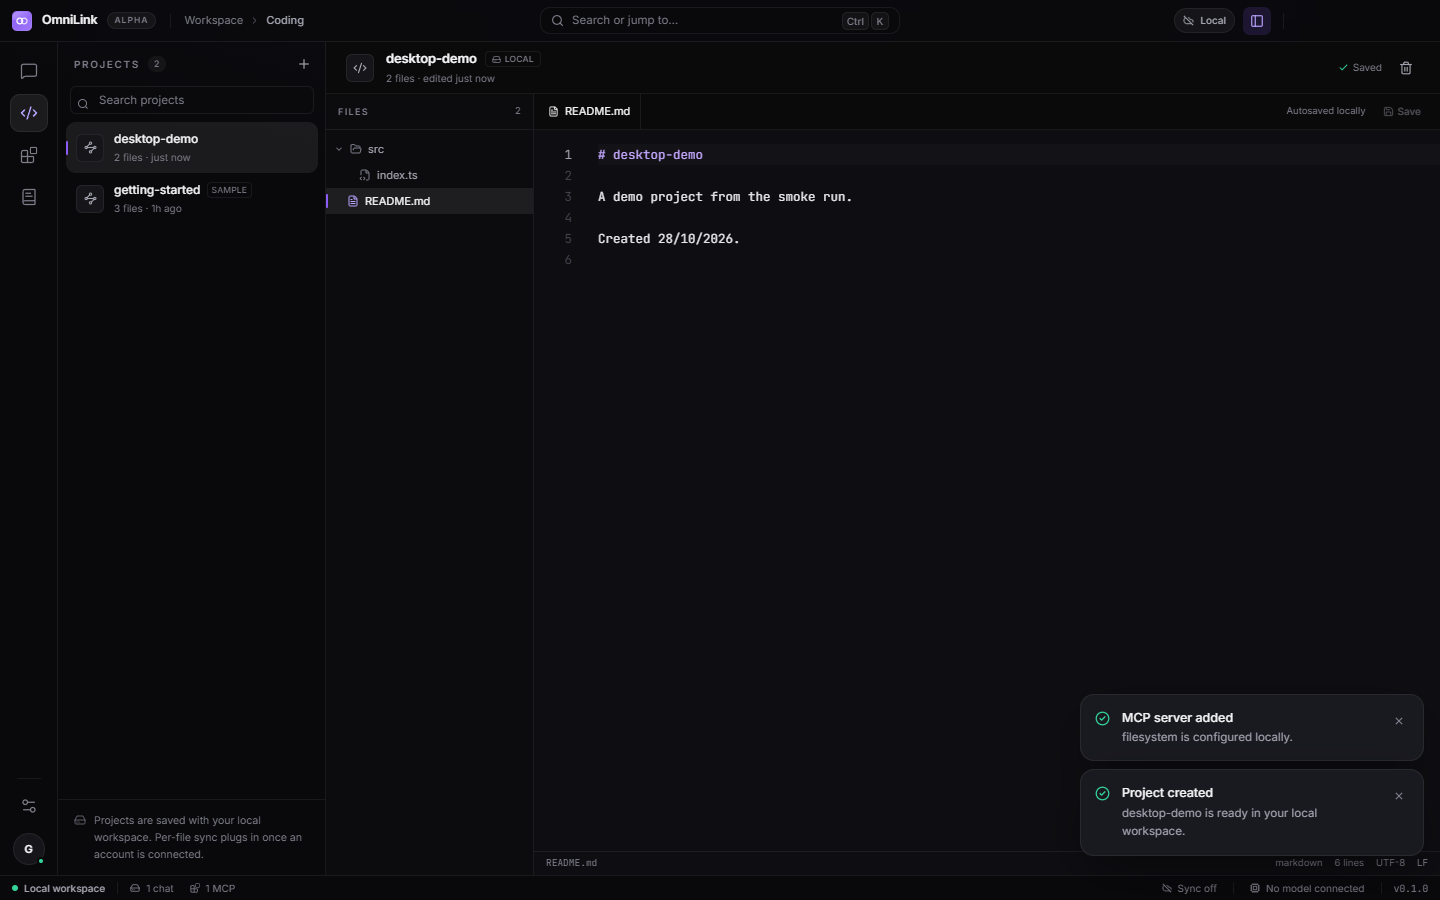
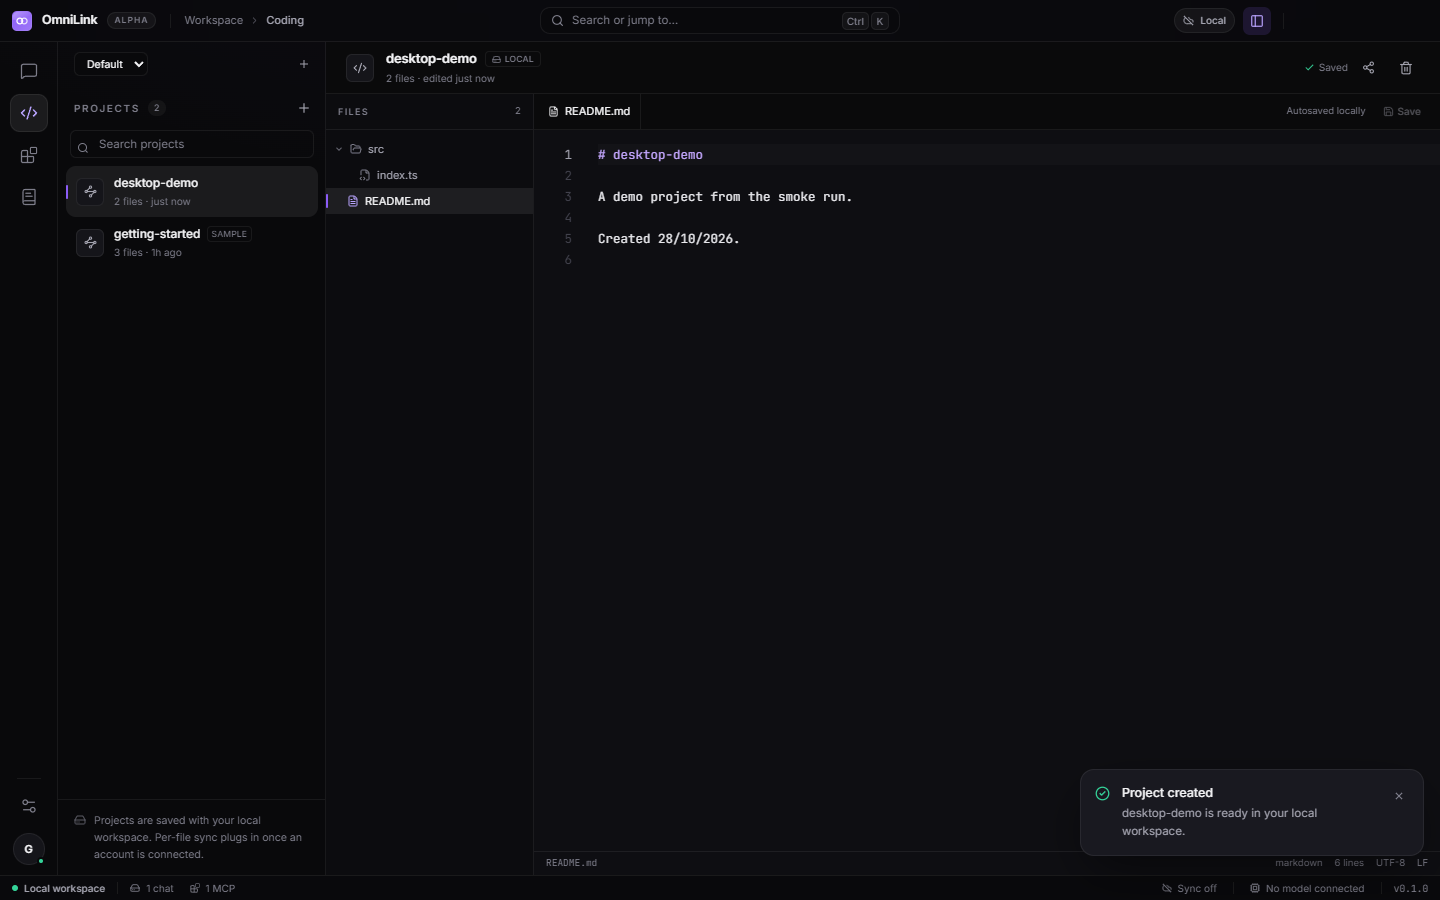
feat(desktop): workspaces + project share bundle (website port)

Changed region(s): [[0.0625, 0.0622, 0.1562, 0.28], [0.75, 0.7778, 0.9062, 0.84], [0.9062, 0.0622, 0.9688, 0.0933]]

diff --git a/omnilink-desktop/src/store/app.ts b/omnilink-desktop/src/store/app.ts
@@ -22,6 +22,7 @@ import type {
   SettingsSection,
   ThemeMode,
   Toast,
+  Workspace,
 } from "@/types";
 import { uid } from "@/lib/utils";
 import { zustandStorage } from "@/lib/storage";
@@ -34,6 +35,7 @@ function scaffoldProject(name: string, description: string): CodingProject {
     description,
     createdAt: timestamp,
     updatedAt: timestamp,
+    workspaceId: "default",
     files: [
       {
         path: "README.md",
@@ -58,6 +60,8 @@ interface AppState {
   modal: ModalState;
   activeConversationId: string | null;
   activeProjectId: string | null;
+  workspaces: Workspace[];
+  activeWorkspaceId: string | null;
   promptTag: string | null;
   ollamaUrl: string;
   modelProvider: ModelProvider;
@@ -99,6 +103,10 @@ interface AppState {
     content: string,
   ) => void;
   setActiveProject: (id: string | null) => void;
+
+  addWorkspace: (name: string) => string;
+  deleteWorkspace: (id: string) => void;
+  setActiveWorkspace: (id: string | null) => void;
 
   addMcpServer: (server: {
     name: string;
@@ -157,6 +165,8 @@ export const useApp = create<AppState>()(
       modal: null,
       activeConversationId: welcomeConversation.id,
       activeProjectId: gettingStartedProject.id,
+      workspaces: [{ id: "default", name: "Default", createdAt: Date.now() }],
+      activeWorkspaceId: "default",
       promptTag: null,
       ollamaUrl: "http://127.0.0.1:11434",
       modelProvider: "ollama",
@@ -296,6 +306,35 @@ export const useApp = create<AppState>()(
 
       setActiveProject: (activeProjectId) =>
         set({ activeProjectId, section: "coding" }),
+
+      addWorkspace: (name) => {
+        const workspace: Workspace = {
+          id: uid("workspace-"),
+          name: name.slice(0, 60) || "Workspace",
+          createdAt: Date.now(),
+        };
+        set((state) => ({
+          workspaces: [...state.workspaces, workspace],
+          activeWorkspaceId: workspace.id,
+        }));
+        return workspace.id;
+      },
+      deleteWorkspace: (id) =>
+        set((state) => {
+          if (id === "default") return state;
+          const workspaces = state.workspaces.filter((w) => w.id !== id);
+          const activeWorkspaceId =
+            state.activeWorkspaceId === id ? "default" : state.activeWorkspaceId;
+          return { workspaces, activeWorkspaceId };
+        }),
+      setActiveWorkspace: (activeWorkspaceId) =>
+        set({ activeWorkspaceId }),
+      renameWorkspace: (id: string, name: string) =>
+        set((state) => ({
+          workspaces: state.workspaces.map((w) =>
+            w.id === id ? { ...w, name: name.slice(0, 60) || w.name } : w,
+          ),
+        })),
 
       addMcpServer: (server) => {
         const timestamp = Date.now();
@@ -438,7 +477,8 @@ export const useApp = create<AppState>()(
           mcpServers: seedMcpServers,
           activeConversationId: welcomeConversation.id,
           activeProjectId: gettingStartedProject.id,
-          promptTag: null,
+          workspaces: [{ id: "default", name: "Default", createdAt: Date.now() }],
+          activeWorkspaceId: "default",
           modal: null,
           paletteOpen: false,
           toasts: [],
@@ -457,6 +497,8 @@ export const useApp = create<AppState>()(
         contextCollapsed: state.contextCollapsed,
         activeConversationId: state.activeConversationId,
         activeProjectId: state.activeProjectId,
+        workspaces: state.workspaces,
+        activeWorkspaceId: state.activeWorkspaceId,
         promptTag: state.promptTag,
         ollamaUrl: state.ollamaUrl,
         modelProvider: state.modelProvider,

diff --git a/omnilink-desktop/src/components/shell/ContextPane.tsx b/omnilink-desktop/src/components/shell/ContextPane.tsx
@@ -278,11 +278,17 @@ function ChatPane() {
 function CodingPane() {
   const projects = useApp((state) => state.projects);
   const activeId = useApp((state) => state.activeProjectId);
+  const workspaces = useApp((state) => state.workspaces);
+  const activeWorkspaceId = useApp((state) => state.activeWorkspaceId);
   const setActiveProject = useApp((state) => state.setActiveProject);
+  const setActiveWorkspace = useApp((state) => state.setActiveWorkspace);
+  const addWorkspace = useApp((state) => state.addWorkspace);
   const openModal = useApp((state) => state.openModal);
+  const pushToast = useApp((state) => state.pushToast);
   const [query, setQuery] = useState("");
 
   const filtered = projects
+    .filter((project) => (project.workspaceId ?? "default") === (activeWorkspaceId ?? "default"))
     .filter((project) =>
       project.name.toLowerCase().includes(query.trim().toLowerCase()),
     )
@@ -290,9 +296,35 @@ function CodingPane() {
 
   return (
     <>
+      <div className="flex h-11 flex-none items-center justify-between pl-4 pr-2.5">
+        <select
+          value={activeWorkspaceId ?? "default"}
+          onChange={(event) => setActiveWorkspace(event.target.value)}
+          className="h-6 rounded-md border border-line bg-[var(--bg-base)] px-2 text-[10.5px] text-fg outline-none"
+        >
+          {workspaces.map((workspace) => (
+            <option key={workspace.id} value={workspace.id}>
+              {workspace.name}
+            </option>
+          ))}
+        </select>
+        <IconButton
+          label="New workspace"
+          onClick={() => {
+            const name = window.prompt("Workspace name");
+            if (name) {
+              addWorkspace(name);
+              pushToast({ title: "Workspace created", tone: "success" });
+            }
+          }}
+          className="h-6 w-6"
+        >
+          <Plus size={12} />
+        </IconButton>
+      </div>
       <PaneHeader
         title="Projects"
-        count={projects.length}
+        count={filtered.length}
         onAdd={() => openModal({ type: "project-new" })}
         addLabel="New project"
       />

diff --git a/omnilink-desktop/src/views/CodingView.tsx b/omnilink-desktop/src/views/CodingView.tsx
@@ -11,6 +11,7 @@ import {
   FolderPlus,
   HardDrive,
   Save,
+  Share2,
   Trash2,
 } from "lucide-react";
 import {
@@ -394,6 +395,24 @@ export function CodingView() {
               </>
             )}
           </span>
+          <IconButton
+            label="Share project"
+            onClick={() => {
+              const blob = new Blob([JSON.stringify(project, null, 2)], {
+                type: "application/json",
+              });
+              const url = URL.createObjectURL(blob);
+              const a = document.createElement("a");
+              a.href = url;
+              a.download = `${project.name}.omnilink.json`;
+              a.click();
+              URL.revokeObjectURL(url);
+              pushToast({ title: "Project exported", tone: "success" });
+            }}
+            className="h-7 w-7"
+          >
+            <Share2 size={13} />
+          </IconButton>
           <IconButton
             label="Delete project"
             onClick={() => setConfirmDelete(true)}

diff --git a/omnilink-desktop/src/types.ts b/omnilink-desktop/src/types.ts
@@ -40,6 +40,7 @@ export interface CodingProject {
   description: string;
   files: ProjectFile[];
   sample?: boolean;
+  workspaceId?: string;
   createdAt: number;
   updatedAt: number;
 }
@@ -75,6 +76,12 @@ export interface Provider {
   baseUrl: string;
   model: string;
   hasKey: boolean;
+  createdAt: number;
+}
+
+export interface Workspace {
+  id: string;
+  name: string;
   createdAt: number;
 }
 
